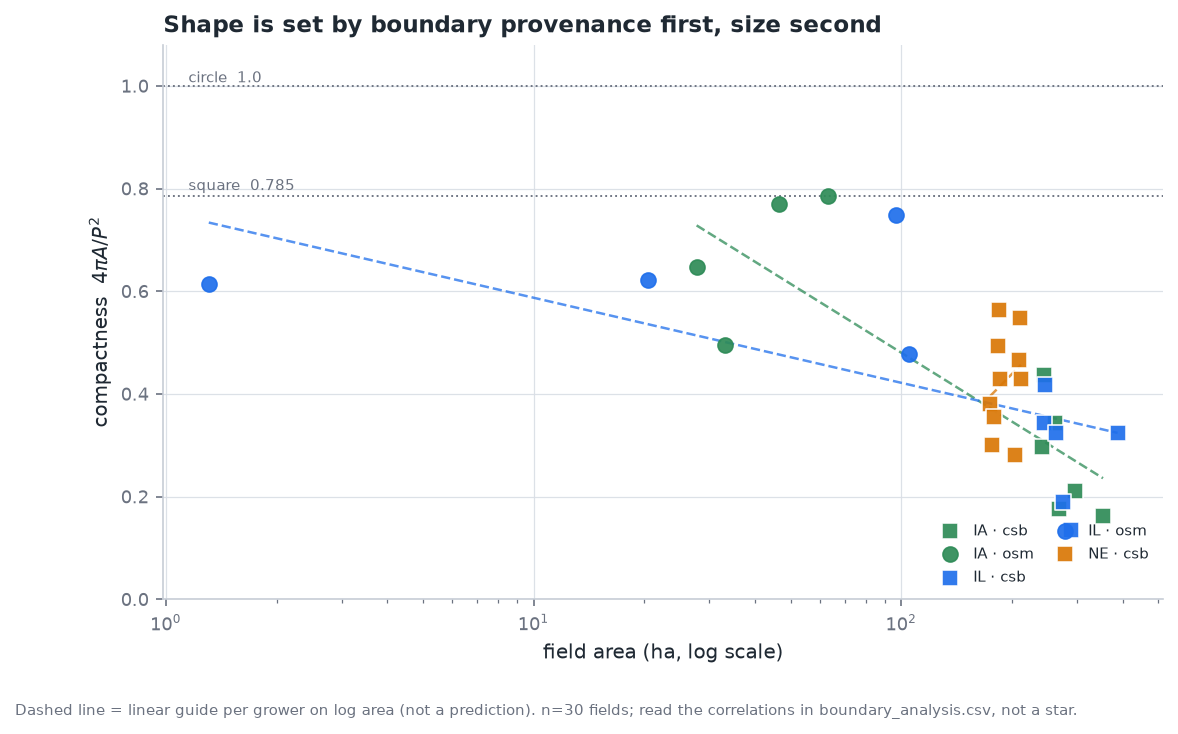
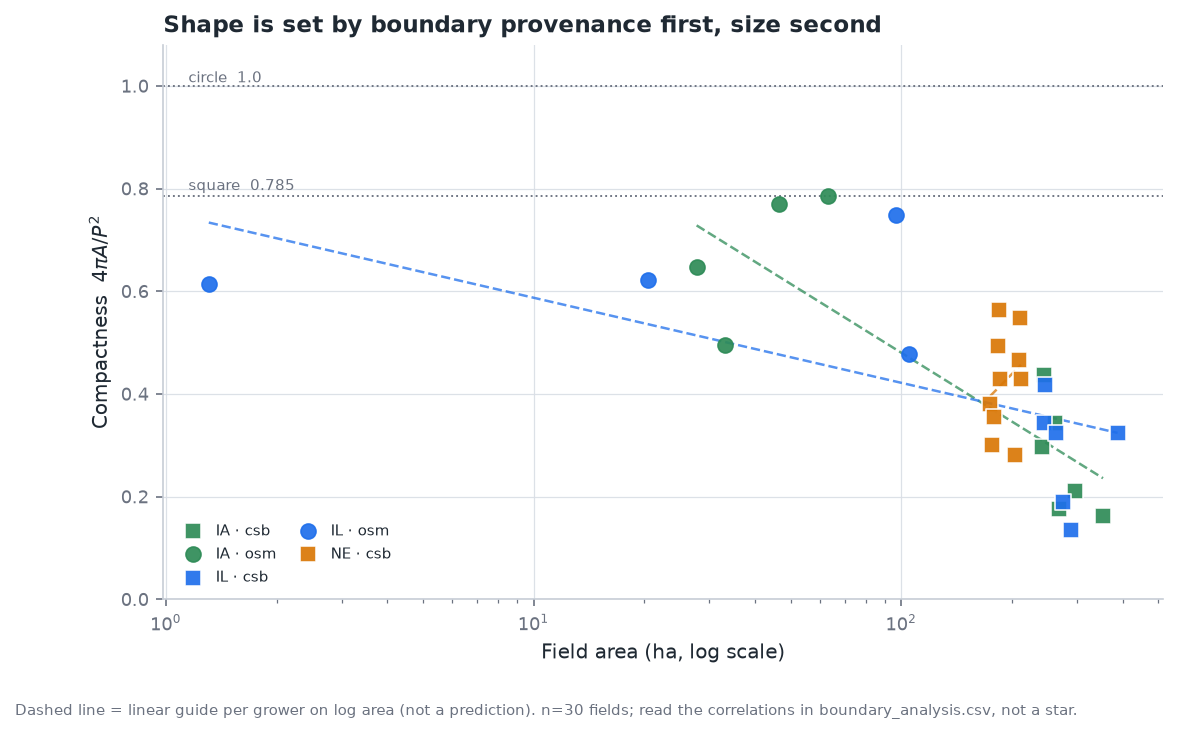
fix: label every chart axis and show the catalog ids
Every chart now carries both axis labels. F1 had no y label, F3 and F4 had
none, and the existing labels were lowercase while the new ones would not be,
so all of them are sentence case now.

- F1: y = Grower, x = Field area (ha, log scale)
- F2: Compactness 4πA/P² against Field area (ha, log scale)
- F3: y = Field, x = Share of classified area (%)
- F4: y = Field, x = Year on each panel
- F5/F6: Month, Growing season, Cumulative GDD, Monthly precipitation

F2's legend moved from lower right to lower left: the capitalised labels grew
the axes and it had started to sit on the Nebraska cluster at 250-350 ha.

Vision review (all six charts, at native size and at README width): no clipped
labels, no hidden points, capitalisation consistent across the six panels, and
the three maps untouched and byte-identical to their committed anchors.
Tables are unchanged, byte for byte.

diff --git a/my-farm-advisor/eda/field-eda/src/field_eda/weather.py b/my-farm-advisor/eda/field-eda/src/field_eda/weather.py
@@ -58,7 +58,7 @@ def _figure_gdd(analysis: Analysis) -> Path:
                 linewidth=2.6, alpha=0.35, zorder=2)
         ax.set_xticks([tick for tick, _ in SEASON_TICKS])
         ax.set_xticklabels([label for _, label in SEASON_TICKS])
-        ax.set_xlabel("growing season")
+        ax.set_xlabel("Growing season")
         ax.grid(axis="x", visible=False)
         style.panel_title(
             ax,
@@ -66,7 +66,7 @@ def _figure_gdd(analysis: Analysis) -> Path:
             f"mean season total {mean_curve.iloc[-1]:,.0f} GDD",
         )
 
-    axes[0].set_ylabel("cumulative GDD (\u00b0C-days, base 10)")
+    axes[0].set_ylabel("Cumulative GDD (\u00b0C-days, base 10)")
     handles = [
         plt.Line2D([], [], color=colour, linewidth=1.6, label=str(year))
         for colour, year in zip(colours, years)
@@ -153,7 +153,7 @@ def _figure_precip(analysis: Analysis) -> Path:
         )
         ax.set_xticks(np.arange(len(months)))
         ax.set_xticklabels(names)
-        ax.set_xlabel("month")
+        ax.set_xlabel("Month")
         ax.grid(axis="x", visible=False)
         total = float(subset.groupby("year")["precip_mm"].sum().mean())
         style.panel_title(
@@ -162,7 +162,7 @@ def _figure_precip(analysis: Analysis) -> Path:
             f"mean season total {total:,.0f} mm",
         )
 
-    axes[0].set_ylabel("monthly precipitation (mm)")
+    axes[0].set_ylabel("Monthly precipitation (mm)")
     handles = [
         plt.Rectangle((0, 0), 1, 1, facecolor=style.MUTED, alpha=0.7,
                       label="monthly mean, 5 years"),

diff --git a/my-farm-advisor/eda/field-eda/src/field_eda/cdl.py b/my-farm-advisor/eda/field-eda/src/field_eda/cdl.py
@@ -74,7 +74,7 @@ def _figure_composition(analysis: Analysis) -> Path:
         ax.set_yticks(np.arange(len(subset)))
         ax.set_yticklabels(subset.index.get_level_values("field_id"), fontsize=7.2)
         ax.set_xlim(0, 100)
-        ax.set_xlabel("share of classified area (%)")
+        ax.set_xlabel("Share of classified area (%)")
         ax.grid(axis="x", color=style.GRID, linewidth=0.6)
         ax.grid(axis="y", visible=False)
         style.panel_title(
@@ -85,6 +85,7 @@ def _figure_composition(analysis: Analysis) -> Path:
 
     for ax in axes:
         ax.set_ylim(-0.6, y_max - 0.4)
+    axes[0].set_ylabel("Field")
 
     handles = style.crop_legend(crops)
     fig.legend(handles=handles, loc="lower center", ncol=min(len(crops), 5),
@@ -175,6 +176,7 @@ def _figure_rotation(analysis: Analysis) -> Path:
         ax.set_xticklabels([str(year) for year in years], fontsize=8)
         ax.set_yticks(range(len(grid)))
         ax.set_yticklabels(grid.index, fontsize=7.2)
+        ax.set_xlabel("Year", labelpad=6)
         ax.set_xticks(np.arange(-0.5, len(years), 1), minor=True)
         ax.set_yticks(np.arange(-0.5, len(grid), 1), minor=True)
         ax.grid(which="minor", color="white", linewidth=1.4)
@@ -188,6 +190,7 @@ def _figure_rotation(analysis: Analysis) -> Path:
 
     for ax in axes:
         ax.set_ylim(y_max - 0.5, -0.5)
+    axes[0].set_ylabel("Field")
 
     handles = style.crop_legend(crops)
     fig.legend(handles=handles, loc="lower center", ncol=min(len(crops), 5),

diff --git a/my-farm-advisor/eda/field-eda/src/field_eda/boundaries.py b/my-farm-advisor/eda/field-eda/src/field_eda/boundaries.py
@@ -82,7 +82,8 @@ def _figure_area(analysis: Analysis, frame: pd.DataFrame) -> Path:
     ax.set_yticks(range(len(growers)))
     ax.set_yticklabels(labels)
     ax.set_xscale("log")
-    ax.set_xlabel("field area (ha, log scale)")
+    ax.set_xlabel("Field area (ha, log scale)")
+    ax.set_ylabel("Grower")
     ax.set_title("Field size: two populations in Illinois and Iowa, one in Nebraska", loc="left")
     ax.set_ylim(-0.65, len(growers) - 0.35)
 
@@ -166,13 +167,13 @@ def _figure_shape(analysis: Analysis, frame: pd.DataFrame) -> Path:
     ax.text(1.15, 1.007, "circle  1.0", fontsize=7.4, color=style.MUTED)
 
     ax.set_xscale("log")
-    ax.set_xlabel("field area (ha, log scale)")
-    ax.set_ylabel(r"compactness  $4\pi A / P^2$")
+    ax.set_xlabel("Field area (ha, log scale)")
+    ax.set_ylabel(r"Compactness  $4\pi A / P^2$")
     ax.set_ylim(0.0, 1.08)
     ax.set_title("Shape is set by boundary provenance first, size second", loc="left")
 
     handles, labels = ax.get_legend_handles_labels()
-    ax.legend(handles, labels, loc="lower right", ncol=2, handletextpad=0.5,
+    ax.legend(handles, labels, loc="lower left", ncol=2, handletextpad=0.5,
               columnspacing=1.0, fontsize=7.4)
 
     style.footnote(
